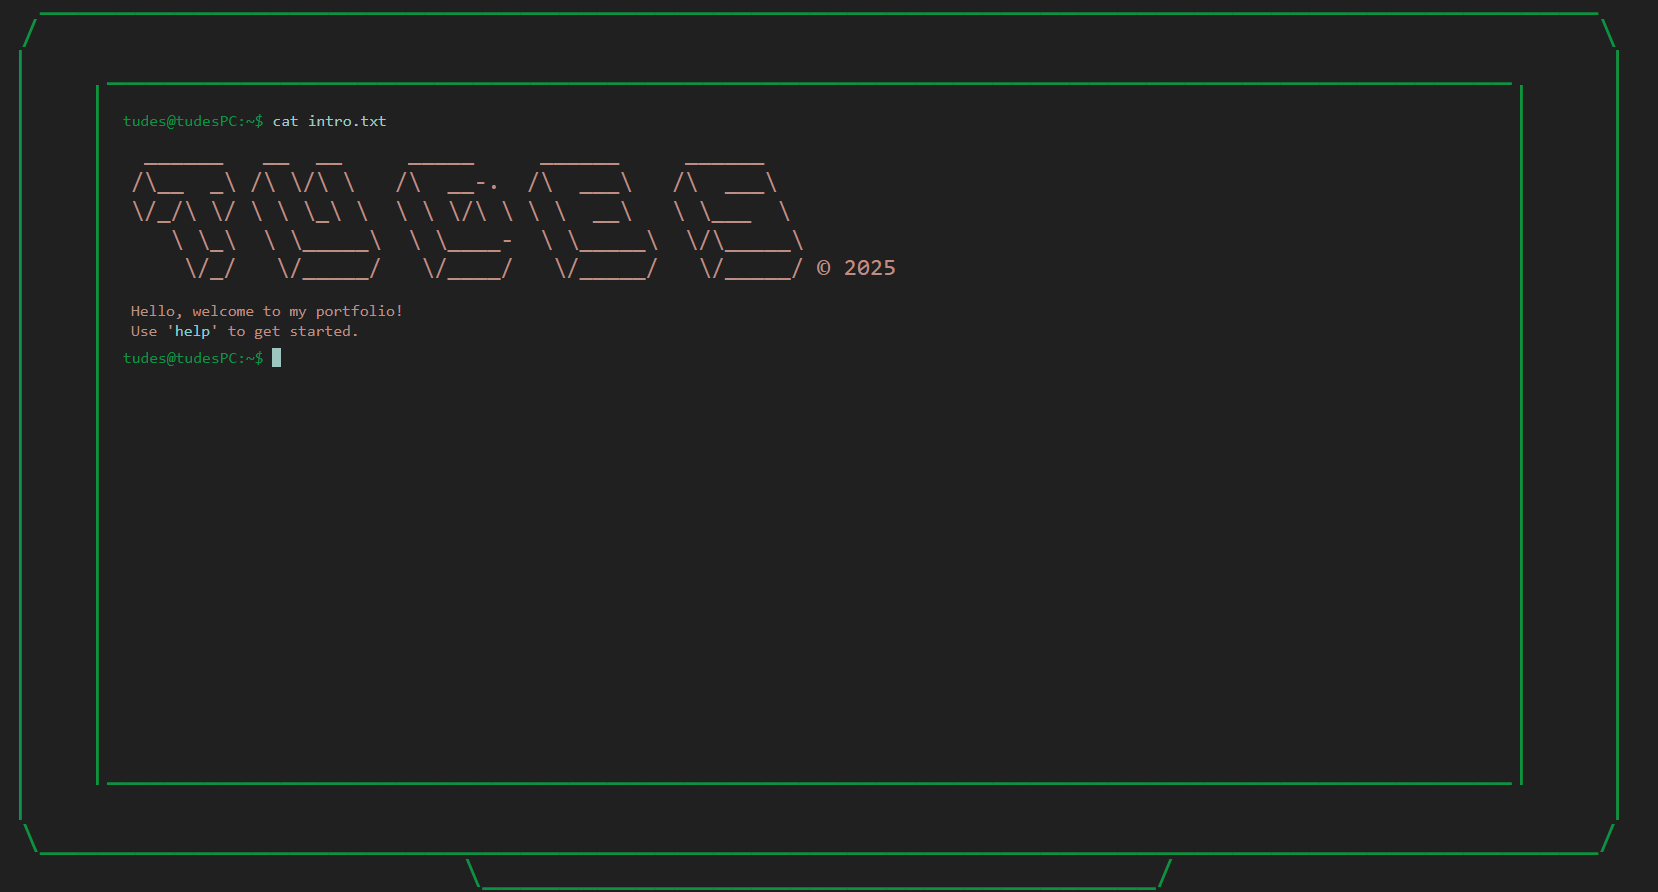
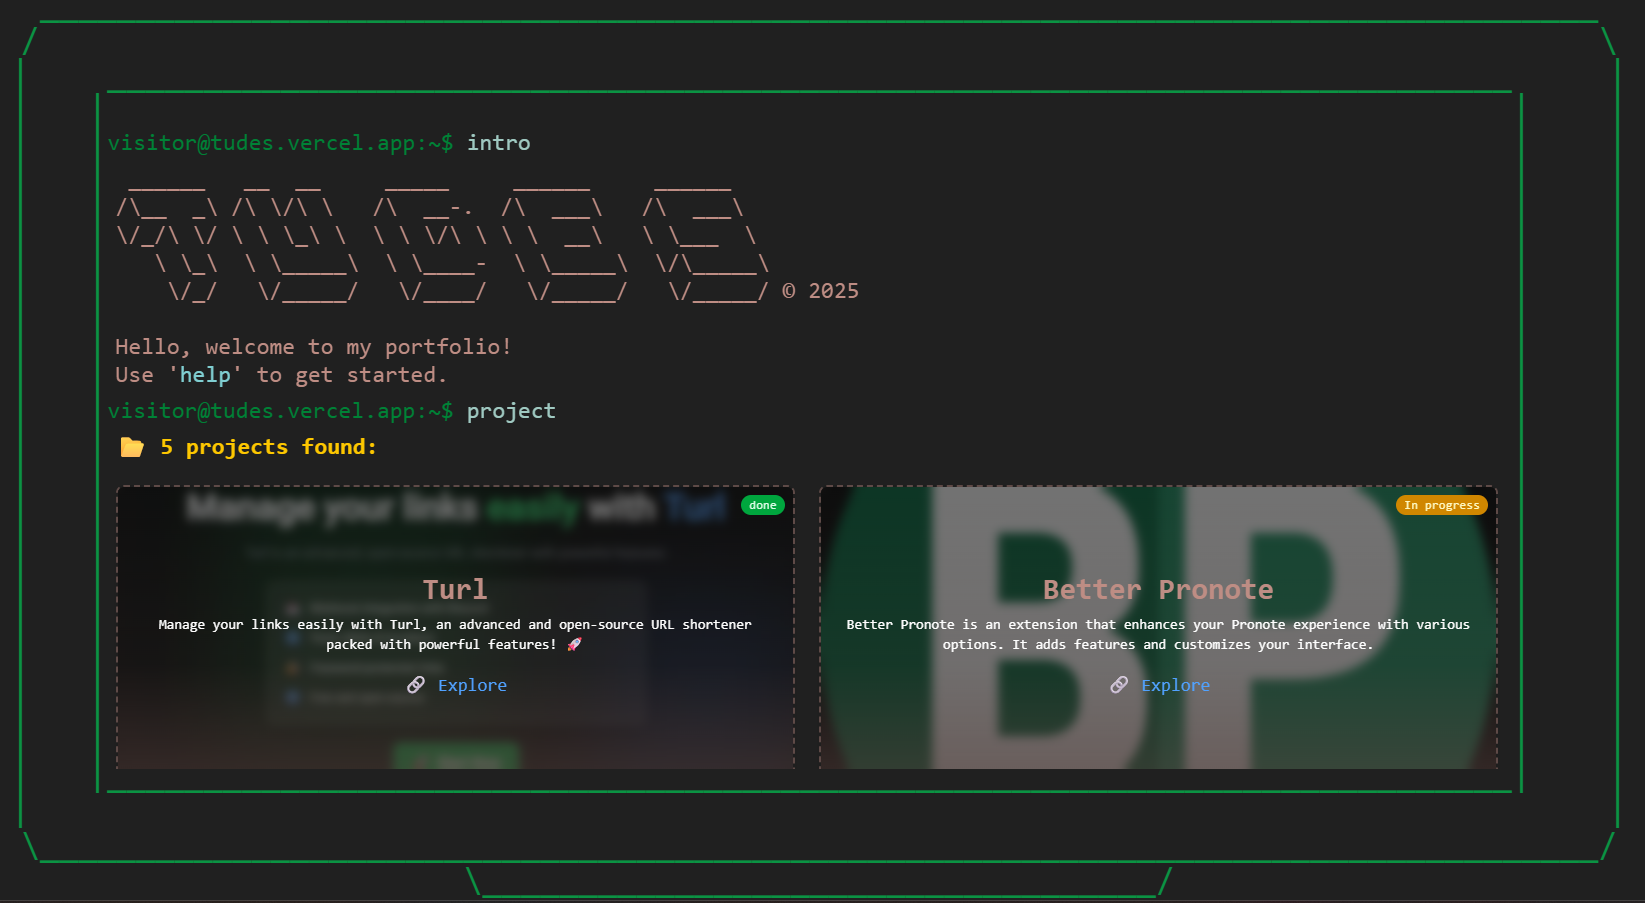
add better UI for project

diff --git a/src/components/commands/project.tsx b/src/components/commands/project.tsx
@@ -1,6 +1,8 @@
 import { JSX, useEffect, useState } from "react";
 import Image from "next/image";
 
+//add when click on a project auto enter command : project <name>
+
 interface projectI {
   name: string;
   desc: string;
@@ -85,7 +87,7 @@ export default function ProjectCommand({
             📂 {projects.length} projects found:
           </h1>
 
-          <div className="grid grid-cols-1 sm:grid-cols-2 gap-6 mr-4">
+          <div className="grid grid-cols-1 lg:grid-cols-2 gap-6 mr-4">
             {projects.map((project, index) => {
               const status = project.status?.toLowerCase();
               const statusStyles =
@@ -98,46 +100,54 @@ export default function ProjectCommand({
               return (
                 <div
                   key={index}
-                  className="relative bg-[#1e1e1e] border border-[#be8d84]/40 hover:border-[#be8d84]/80 rounded-lg p-4 flex gap-4 shadow-md transition-all hover:scale-[1.005]"
+                  className="relative rounded-lg border-2 border-dashed border-[#be8d84]/40 bg-[#1e1e1e] shadow-md overflow-hidden hover:border-[#be8d84]/80 hover:scale-[1.005] transition-all cursor-pointer"
+                  style={{ height: "300px" }}
                 >
-                  {project.status && (
-                    <div
-                      className={`absolute top-2 right-2 text-xs px-2 py-0.5 rounded-full font-mono tracking-wide ${statusStyles}`}
-                    >
-                      {project.status}
-                    </div>
-                  )}
+                  <Image
+                    src={project.img}
+                    alt={`Image of ${project.name}`}
+                    layout="fill"
+                    objectFit="cover"
+                    objectPosition="center"
+                    priority
+                  />
+                  <div
+                    aria-hidden="true"
+                    className="absolute inset-0"
+                    style={{
+                      background:
+                        "linear-gradient(to bottom, rgba(0,0,0,0), rgba(190, 141, 132, 0.1) 60%, rgba(190, 141, 132, 0.5) 100%)",
+                      backdropFilter: "blur(5px) brightness(90%)",
+                      WebkitBackdropFilter: "blur(5px)  brightness(90%)",
+                    }}
+                  />
 
-                  <div className="w-auto h-40 flex-shrink-0 overflow-hidden rounded-md">
-                    <Image
-                      src={project.img}
-                      alt={`Image of ${project.name}`}
-                      width={500}
-                      height={500}
-                      className="w-full h-full object-cover"
-                    />
-                  </div>
-
-                  <div className="flex flex-col justify-between text-sm">
-                    <span className="text-[#be8d84] font-bold text-base mb-1">
-                      {project.name}
-                    </span>
-                    <span className="text-zinc-400 leading-snug line-clamp-3 ml-2">
+                  <div className="absolute inset-0 bg-black/50 bg flex flex-col justify-center p-4 text-center">
+                    <h2 className="font-bold text-3xl">{project.name}</h2>
+                    <p className="mt-2 text-sm line-clamp-3 text-white">
                       {project.desc}
-                    </span>
-                    {project.link ? (
+                    </p>
+                    {project.link && (
                       <a
                         href={project.link}
                         target="_blank"
                         rel="noopener noreferrer"
-                        className="mt-2 text-blue-400 hover:text-blue-300  text-sm transition"
+                        className="mt-4 text-blue-400 hover:text-blue-300 text-lg"
                       >
                         🔗 Explore
                       </a>
-                    ) : (
-                      <p></p>
                     )}
                   </div>
+
+                  {project.status && (
+                    <div
+                      className={`absolute top-2 right-2 text-xs px-2 py-0.5 rounded-full font-mono tracking-wide ${
+                        statusStyles
+                      }`}
+                    >
+                      {project.status}
+                    </div>
+                  )}
                 </div>
               );
             })}

diff --git a/src/components/asciiLayout.tsx b/src/components/asciiLayout.tsx
@@ -1,4 +1,4 @@
-import React, { useEffect, useRef, useState } from "react";
+import React, { useEffect, useState } from "react";
 
 type AsciiLayoutProps = {
   children: React.ReactNode;
@@ -8,8 +8,6 @@ export default function AsciiLayout({ children }: AsciiLayoutProps) {
   const [ascii, setAscii] = useState<string>("");
   const [fontSize, setFontSize] = useState<number | null>(null);
   const [isReady, setIsReady] = useState(false);
-  const asciiRef = useRef<HTMLPreElement>(null);
-  const [monitorSize, setMonitorSize] = useState({ width: 0, height: 0 });
 
   useEffect(() => {
     async function loadAscii() {
@@ -26,14 +24,18 @@ export default function AsciiLayout({ children }: AsciiLayoutProps) {
 
     const computeFontSize = () => {
       const lines = ascii.split("\n").length;
-      const maxLineLength = Math.max(...ascii.split("\n").map((line) => line.length));
+      const maxLineLength = Math.max(
+        ...ascii.split("\n").map((line) => line.length),
+      );
 
       const screenHeight = window.innerHeight;
       const screenWidth = window.innerWidth;
 
       const heightBased = Math.floor(screenHeight / lines);
       const CHAR_WIDTH_RATIO = 0.55;
-      const widthBased = Math.floor(screenWidth / (maxLineLength * CHAR_WIDTH_RATIO));
+      const widthBased = Math.floor(
+        screenWidth / (maxLineLength * CHAR_WIDTH_RATIO),
+      );
       const computedFontSize = Math.min(heightBased, widthBased);
       setFontSize(computedFontSize);
       setIsReady(true);
@@ -43,13 +45,6 @@ export default function AsciiLayout({ children }: AsciiLayoutProps) {
     window.addEventListener("resize", computeFontSize);
     return () => window.removeEventListener("resize", computeFontSize);
   }, [ascii]);
-
-  useEffect(() => {
-    if (!isReady || !asciiRef.current) return;
-
-    const rect = asciiRef.current.getBoundingClientRect();
-    setMonitorSize({ width: rect.width, height: rect.height });
-  }, [isReady, fontSize]);
 
   if (!isReady || fontSize === null) return null;
 
@@ -67,7 +62,6 @@ export default function AsciiLayout({ children }: AsciiLayoutProps) {
       }}
     >
       <pre
-        ref={asciiRef}
         className="ascii-monitor select-none text-center"
         style={{
           margin: 0,
@@ -83,28 +77,25 @@ export default function AsciiLayout({ children }: AsciiLayoutProps) {
         {ascii}
 
         <div
-  className="ascii-content absolute font-mono text-green-700"
-  style={{
-    position: "absolute",
-    top: "13%",
-    left: "6%",
-    width: "90%",
-    height: "73%",
-    fontSize: fontSize / 1.5,
-    lineHeight: 1.2,
-    background: "transparent",
-    overflowY: "auto",
-    padding: "1rem",
-    textAlign: "left",
-    display: "flex",
-    flexDirection: "column",
-    whiteSpace: "pre-wrap",
-    wordBreak: "break-word",
-  }}
->
-  {children}
-</div>
-
+          className="ascii-content absolute font-mono text-green-700"
+          style={{
+            top: "13%",
+            left: "5%",
+            width: "89%",
+            height: "73%",
+            fontSize: fontSize / 1.5,
+            lineHeight: 1.2,
+            overflowY: "auto",
+            padding: "1rem",
+            textAlign: "left",
+            display: "flex",
+            flexDirection: "column",
+            whiteSpace: "pre-wrap",
+            wordBreak: "break-word",
+          }}
+        >
+          {children}
+        </div>
       </pre>
     </div>
   );

diff --git a/src/styles/globals.css b/src/styles/globals.css
@@ -47,30 +47,10 @@ body {
 .green {
   color: #0b9343;
 }
+.whitespace-pre-wrap span {
+  font-size: inherit !important;
+}
 
-/*
-.terminal-overlay {
-  position: absolute;
-  top: calc(5 * 1.6em); 
-  left: 30ch; 
-  width: 158ch;
-  height: calc(18 * 2.3em);
-  font-family: "Fira Code", monospace;
-  font-size: 16px;
-  line-height: 1.2;
-  white-space: pre-wrap;
-  word-break: break-word;
-  overflow-y: auto;
-  overflow-x: hidden;
-  color: #0b9343;
-  background: transparent;
-  padding-right: 1ch;
-  display: flex;
-  flex-direction: column;
-  scrollbar-width: none;
-
-  */
-  
 .terminal-overlay {
   scroll-behavior: smooth;
   scrollbar-width: none;
